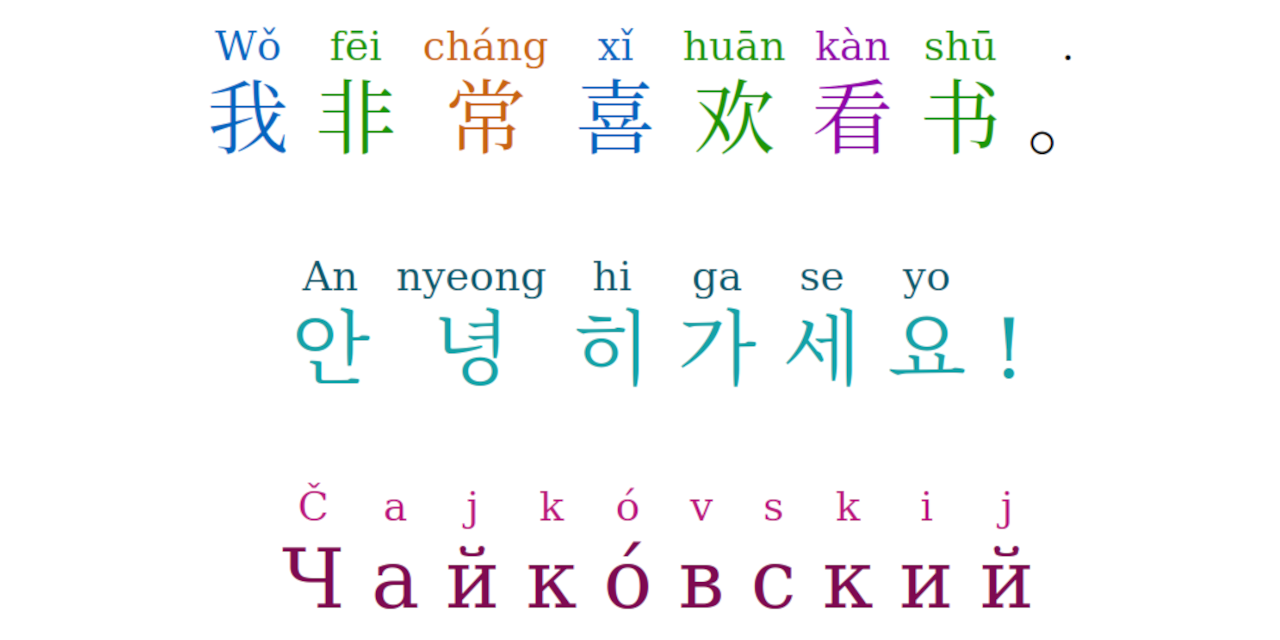
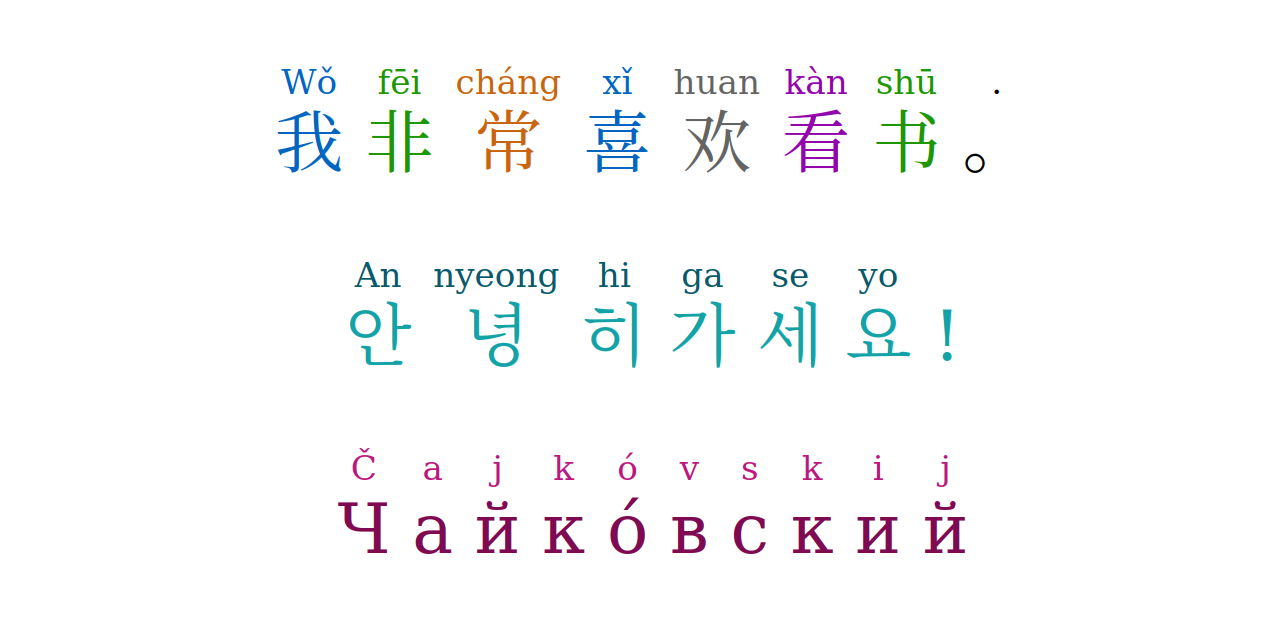
Upgrade package.json

diff --git a/docs/screenshot.htm b/docs/screenshot.htm
@@ -36,7 +36,7 @@
       <ruby class="pinyin falling-rising"
         >喜<rp>(</rp><rt>xǐ</rt><rp>)</rp></ruby
       >
-      <ruby class="pinyin flat">欢<rp>(</rp><rt>huān</rt><rp>)</rp></ruby>
+      <ruby class="pinyin neuter">欢<rp>(</rp><rt>huan</rt><rp>)</rp></ruby>
       <ruby class="pinyin falling">看<rp>(</rp><rt>kàn</rt><rp>)</rp></ruby>
       <ruby class="pinyin flat">书<rp>(</rp><rt>shū</rt><rp>)</rp></ruby>
       <ruby>。<rp>(</rp><rt>.</rt><rp>)</rp></ruby>
